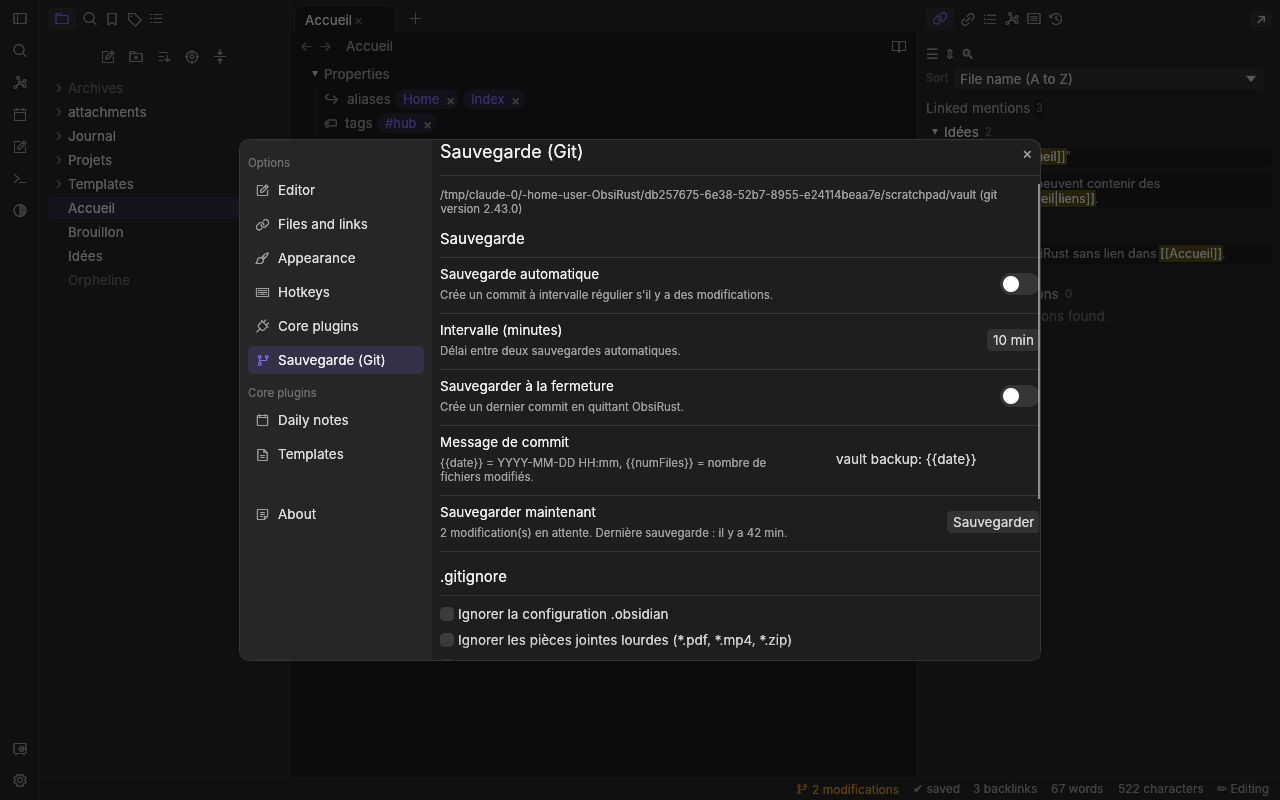
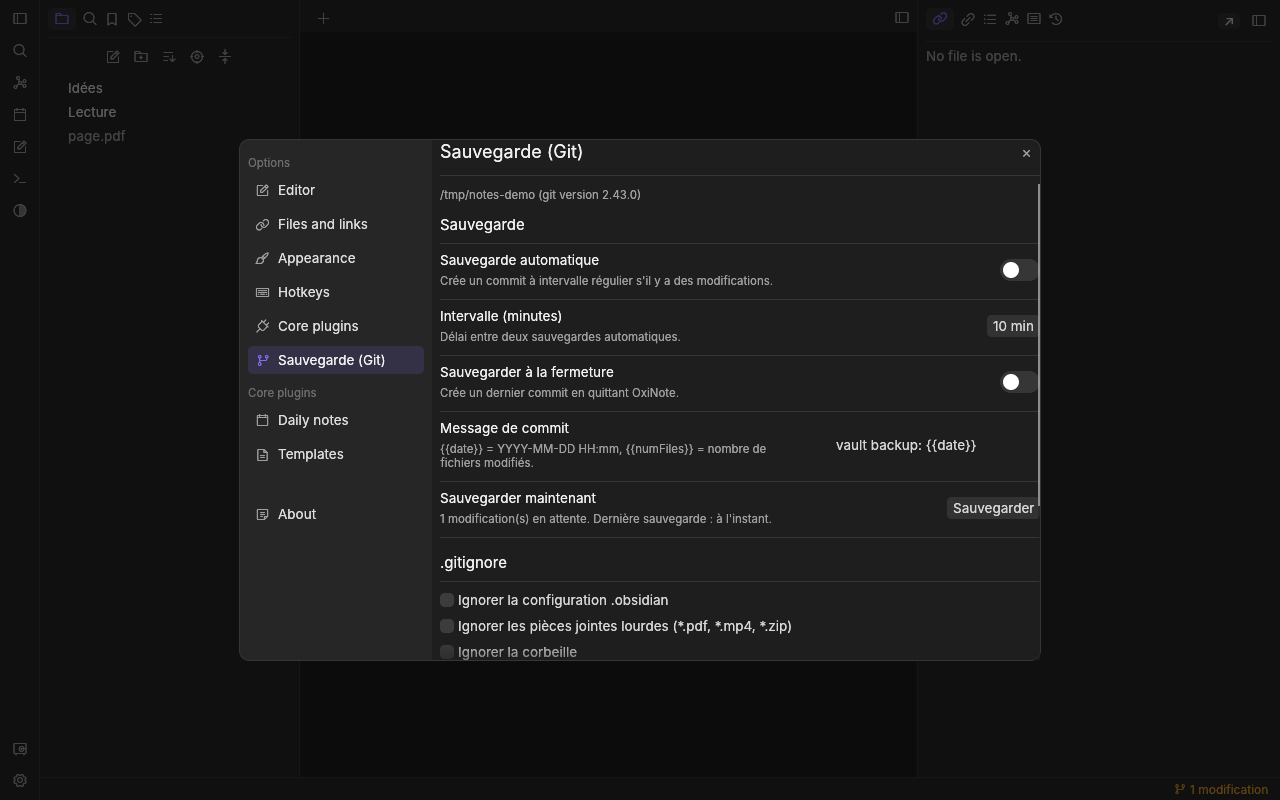
Put the navigator first and drop the old vault captures.
The home pages already opened with the heading navigator; the language gate and the root 404 now use the same menu. The light Live Preview, Git history, Git settings, and PDF tab captures are retaken from a temporary vault, so ObsiRust and Canvas no longer appear in the images the site ships.

diff --git a/site/src/data/features.ts b/site/src/data/features.ts
@@ -88,8 +88,8 @@ export interface Feature {
 }
 
 const liveAlt = {
-  fr: "Thème clair : explorateur du vault sample-vault (attachments, Journal, Projets, Templates, Accueil, Idées, Orpheline), note Idées avec titres, cases à cocher, surlignage et callout, mentions liées à droite.",
-  en: "Light theme: sample-vault file tree (attachments, Journal, Projets, Templates, Accueil, Idées, Orpheline), the Idées note with headings, checkboxes, highlight and a callout, linked mentions on the right.",
+  fr: "Thème clair : explorateur (Idées, Lecture, page.pdf), note Idées avec une liste, un callout et un surlignage, mention liée à droite.",
+  en: "Light theme: file tree (Idées, Lecture, page.pdf), the Idées note with a list, a callout and a highlight, a linked mention on the right.",
 };
 
 export const features: Feature[] = [
@@ -378,12 +378,12 @@ export const features: Feature[] = [
       {
         src: "/media/git-history.png",
         alt: {
-          fr: "Historique d’Accueil : trois commits vault backup datés, comparaison avec la version actuelle, ligne ajoutée en vert, bouton Restaurer cette version.",
-          en: "History of Accueil: three dated vault backup commits, comparison with the current version, an added line in green, Restore this version button.",
+          fr: "Historique de la note Idées : deux commits, comparaison avec la version actuelle, bouton Restaurer cette version.",
+          en: "History of the Idées note: two commits, comparison with the current version, Restore this version button.",
         },
         caption: {
-          fr: "Trois commits, le diff, et le bouton pour restaurer.",
-          en: "Three commits, the diff, and the button to restore.",
+          fr: "Deux commits, et le bouton pour restaurer.",
+          en: "Two commits, and the button to restore.",
         },
       },
       {
@@ -443,8 +443,8 @@ export const features: Feature[] = [
       {
         src: "/media/pdf-tab.png",
         alt: {
-          fr: "Onglet PDF test.pdf, page 1 sur 3, zoom 82 %, boutons Fit to width et Open in default app. Le panneau Linked mentions liste des liens vers ce PDF.",
-          en: "PDF tab test.pdf, page 1 of 3, zoom 82%, Fit to width and Open in default app buttons. The Linked mentions panel lists links to this PDF.",
+          fr: "Onglet page.pdf, page 1, zoom 102 %, boutons Fit to width et Open in default app.",
+          en: "Tab page.pdf, page 1, zoom 102%, Fit to width and Open in default app buttons.",
         },
         caption: {
           fr: "Page 1, zoom, largeur de page, ouverture dans l’application du système.",
